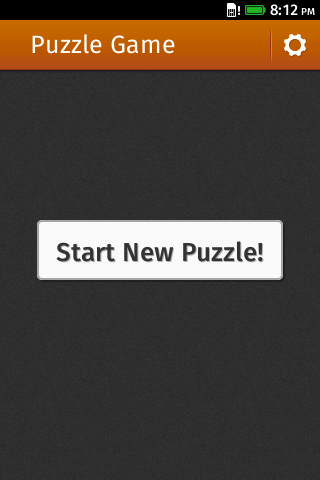
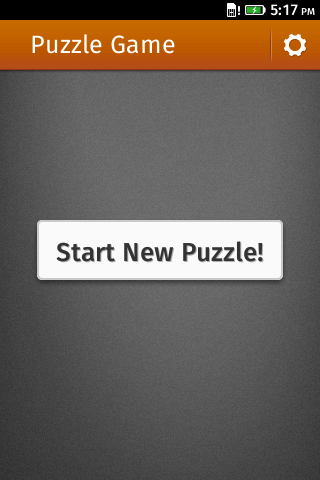
last change about new images and screenshot

diff --git a/template/index.html b/template/index.html
@@ -57,6 +57,9 @@
           <li>Usaremos canvas, transformaciones de traslación, escalado, etc...</li>
           <li>Aunque antes necesitamos un poco más de contexto...</li>
         </ul>
+        <p style="text-align: center">
+          <img src="images/icon.png"></img>
+        </p>
       </article>
 
       <article>
@@ -363,12 +366,13 @@ navigator.mozL10n.ready(function localize() {
         <h3>
           ¿Qué BBs vamos a usar en nuestro juego?
         </h3>
-        <ul>
+        <ul style="float: left; width: 50%">
           <li>Cabeceras</li>
           <li>Botones</li>
           <li>Listas</li>
           <li>Selectores</li>
         </ul>
+        <img style="float: right; margin-top: 20px" src="images/puzzle 1.png"></img>
       </article>
 
       <article class='smaller'>
@@ -402,14 +406,16 @@ navigator.mozL10n.ready(function localize() {
         <pre>&lt;link rel="stylesheet" type="text/css" href="style/buttons.css"&gt;</pre>
         <pre>&lt;button id="play-button" data-l10n-id="game-start"&gt;Start New Puzzle!&lt;/button&gt;</pre>
         <pre>#play-button {
+  border: .2rem solid #ccc9c9;
+  box-shadow: 0 .3rem .4rem rgba(0,0,0,.49);
+  background-image: linear-gradient(bottom, #cbcbcb 0%, #fbfbfb 100%);
+  color: #333;
   margin-top: 15rem;
-  border-width: .2rem;
   height: 6rem;
   font: 500 2.6rem/6rem 'MozTT', Sans-serif;
   width: auto;
   border-radius: .5rem;
   text-shadow: .1rem .1rem 0 rgba(0,0,0,0.3);
-  box-shadow: .2rem .2rem 0 rgba(0,0,0,0.3);
 }</pre>
         <p style="text-align: center">
           <img src="images/button.png"></img>
